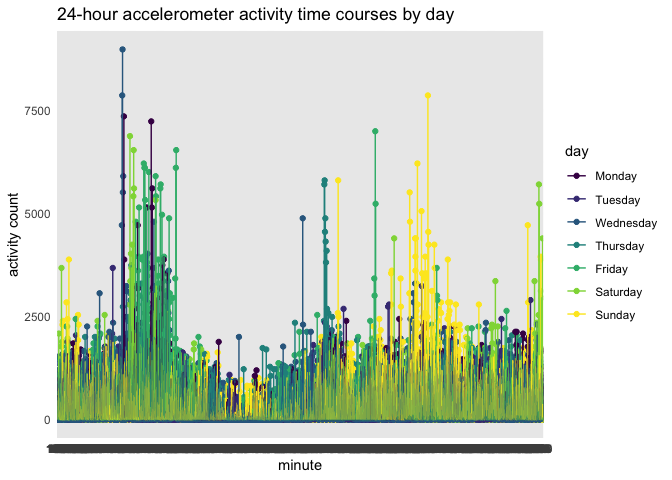
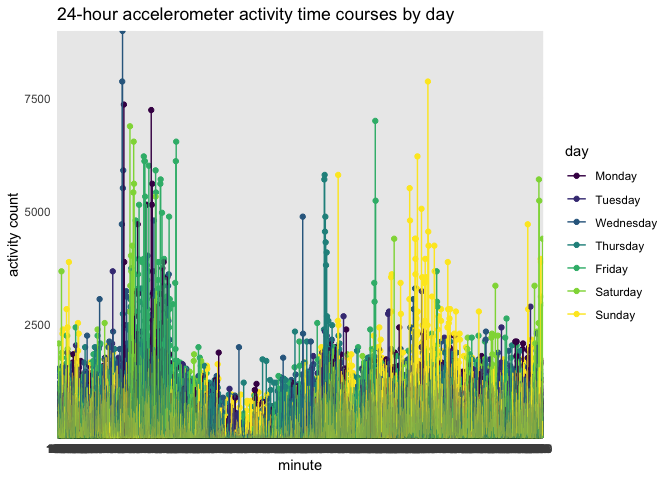
editing comments

diff --git a/p8105_hw3_smm2350.md b/p8105_hw3_smm2350.md
@@ -12,7 +12,7 @@ options.
 
 ### Instacart data
 
-I will write a short description of the dataset,noting the size and
+I will write a short description of the dataset, noting the size and
 structure of the data, describing key variables, and giving illustrative
 examples of observations:
 
@@ -351,6 +351,7 @@ accel_df %>%
   ggplot(aes(x = minute, y = count, color = day)) +
   geom_point() +
   geom_line() +
+  scale_y_continuous(expand = c(0,0)) +
   labs(
     title = "24-hour accelerometer activity time courses by day",
     x = "minute",
@@ -361,5 +362,5 @@ accel_df %>%
 
 ![](p8105_hw3_smm2350_files/figure-gfm/accel_24_plot-1.png)<!-- -->
 
-Based on this graph, it appears the highest activity daily count was on
-a `Wednesday`, followed by a `Sunday`.
+Based on this graph, it appears the highest activity count was on a
+`Wednesday`, followed by a `Sunday`.
